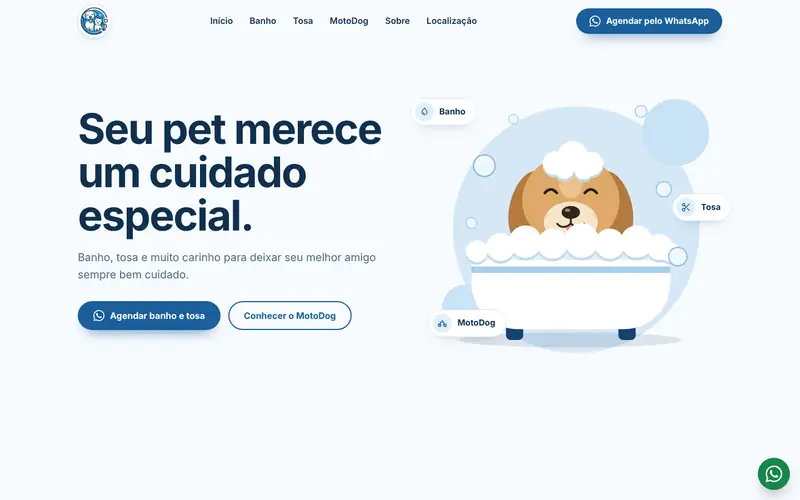
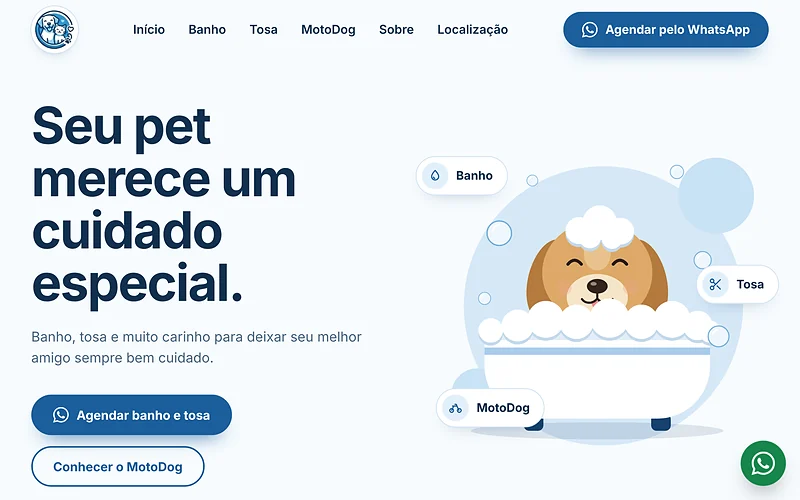
Melhora a qualidade das capturas do Tio Pet (resolução maior, texto legível)
Claude-Session: https://claude.ai/code/session_016EiU8NvsorJn2QpkbRXkRw

diff --git a/index.html b/index.html
@@ -368,10 +368,10 @@
                 <div class="case__scene">
                   <figure class="device device--browser case__main">
                     <div class="device__bar"><i></i><i></i><i></i></div>
-                    <img src="assets/projects/tiopet-desktop.webp" srcset="assets/projects/tiopet-desktop-sm.webp 800w, assets/projects/tiopet-desktop.webp 1200w" sizes="(min-width: 60em) 455px, 70vw" alt="Página inicial do site do Tio Pet, em tons de azul, com o título &quot;Seu pet merece um cuidado especial&quot; e a ilustração de um cachorro no banho." width="1200" height="750" loading="lazy" decoding="async" />
+                    <img src="assets/projects/tiopet-desktop.webp" srcset="assets/projects/tiopet-desktop-sm.webp 800w, assets/projects/tiopet-desktop.webp 1600w" sizes="(min-width: 60em) 455px, 70vw" alt="Página inicial do site do Tio Pet, em tons de azul, com o título &quot;Seu pet merece um cuidado especial&quot; e a ilustração de um cachorro no banho." width="1600" height="1000" loading="lazy" decoding="async" />
                   </figure>
                   <figure class="device device--phone case__phone">
-                    <img src="assets/projects/tiopet-mobile.webp" alt="Versão para celular do site do Tio Pet." width="300" height="649" loading="lazy" decoding="async" />
+                    <img src="assets/projects/tiopet-mobile.webp" alt="Versão para celular do site do Tio Pet." width="420" height="909" loading="lazy" decoding="async" />
                   </figure>
                 </div>
               </div>
